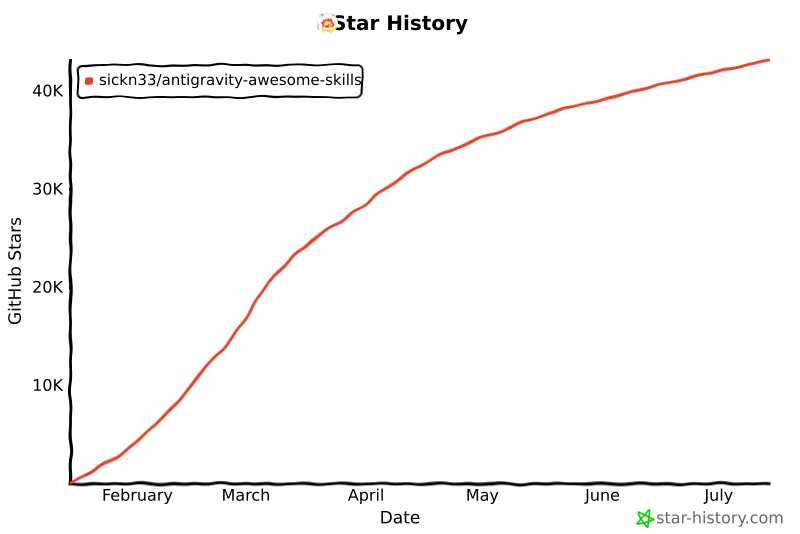
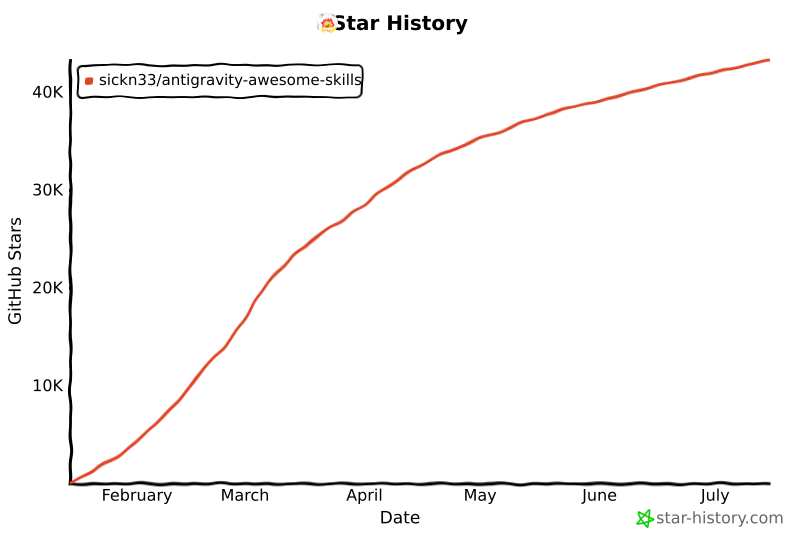
chore: update star history chart

diff --git a/README.md b/README.md
@@ -550,14 +550,14 @@ We officially thank the following contributors for their help in making this rep
 ## Star History
 
 <a href="https://www.star-history.com/#sickn33/antigravity-awesome-skills&type=date&legend=top-left">
- <img alt="Star History Chart" src="https://api.star-history.com/svg?repos=sickn33/antigravity-awesome-skills&type=date&legend=top-left&cache_bust=202607140804" />
+ <img alt="Star History Chart" src="https://api.star-history.com/svg?repos=sickn33/antigravity-awesome-skills&type=date&legend=top-left&cache_bust=202607150809" />
 </a>
 
 <a href="https://www.star-history.com/sickn33/antigravity-awesome-skills">
  <picture>
-   <source media="(prefers-color-scheme: dark)" srcset="https://api.star-history.com/chart?repos=sickn33/antigravity-awesome-skills&style=landscape1&theme=dark&cache_bust=202607140804" />
-   <source media="(prefers-color-scheme: light)" srcset="https://api.star-history.com/chart?repos=sickn33/antigravity-awesome-skills&style=landscape1&cache_bust=202607140804" />
-   <img alt="Star History Chart" src="https://api.star-history.com/chart?repos=sickn33/antigravity-awesome-skills&style=landscape1&cache_bust=202607140804" />
+   <source media="(prefers-color-scheme: dark)" srcset="https://api.star-history.com/chart?repos=sickn33/antigravity-awesome-skills&style=landscape1&theme=dark&cache_bust=202607150809" />
+   <source media="(prefers-color-scheme: light)" srcset="https://api.star-history.com/chart?repos=sickn33/antigravity-awesome-skills&style=landscape1&cache_bust=202607150809" />
+   <img alt="Star History Chart" src="https://api.star-history.com/chart?repos=sickn33/antigravity-awesome-skills&style=landscape1&cache_bust=202607150809" />
  </picture>
 </a>
 
